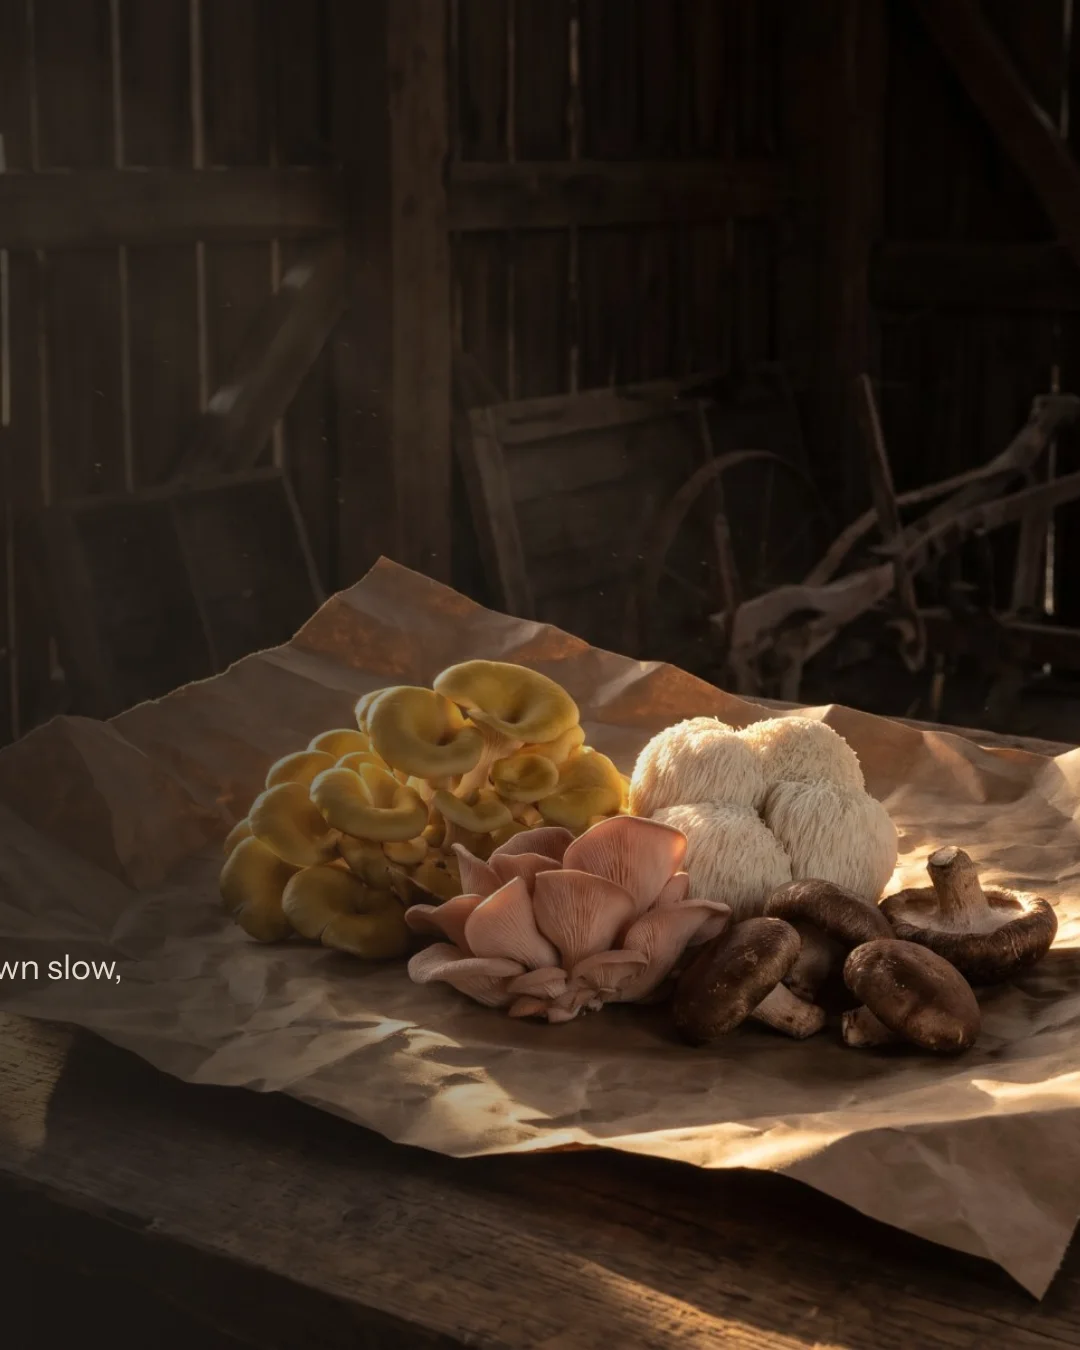
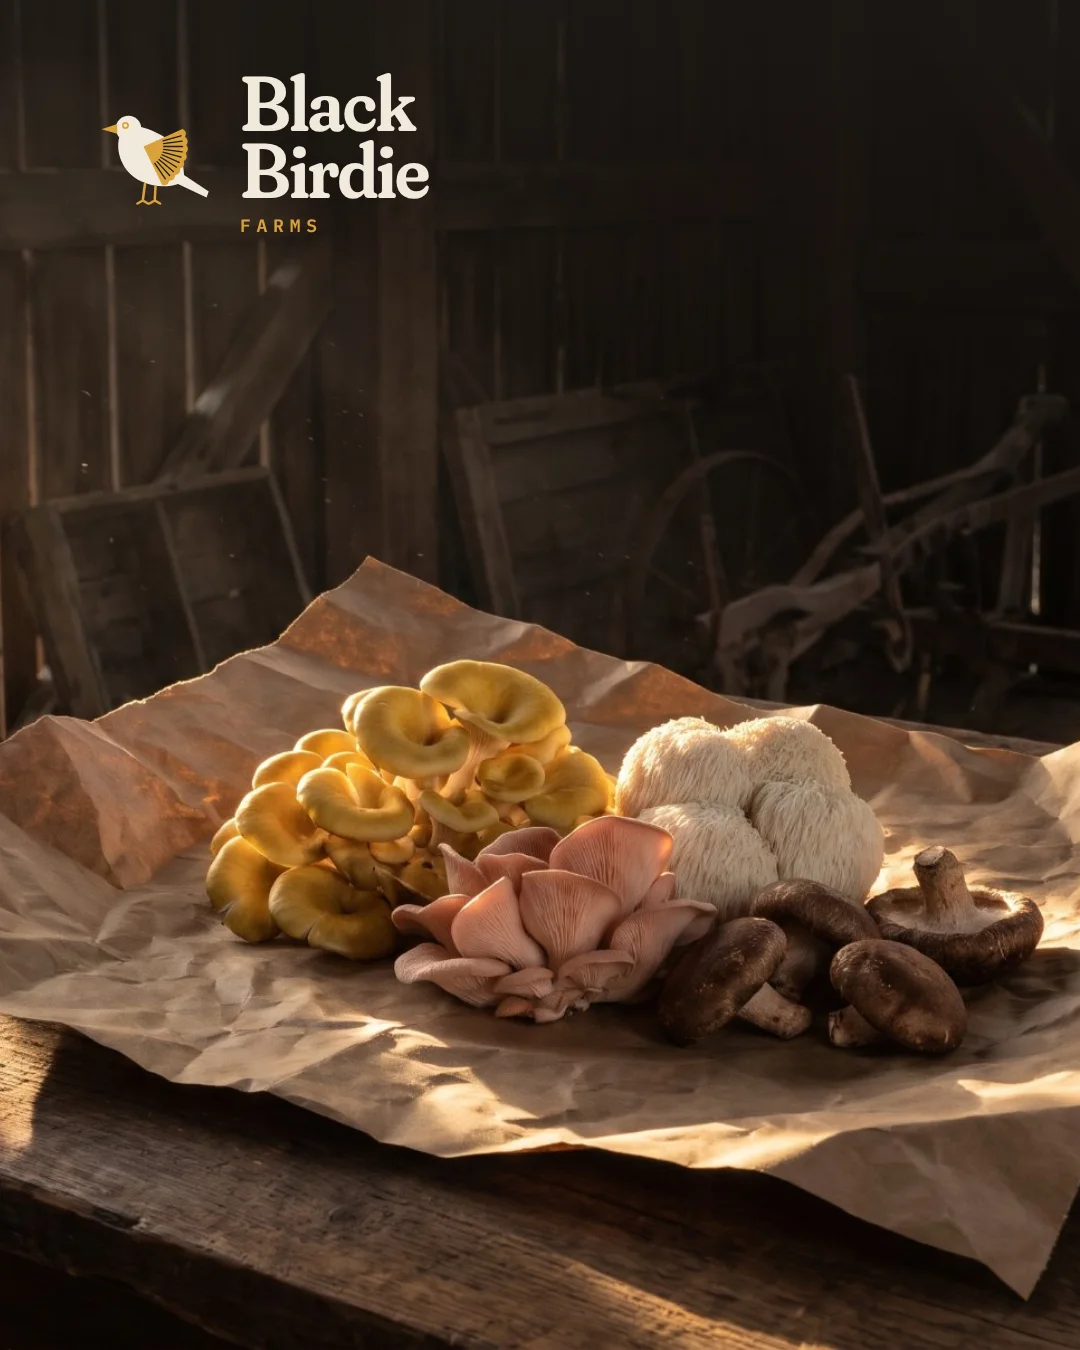
Black Birdie Farms card cover; Work page title and share card name the new services
Claude-Session: https://claude.ai/code/session_01W6caJwvDMc6ZbFhrhuMNuy

diff --git a/app/work/page.tsx b/app/work/page.tsx
@@ -4,7 +4,7 @@ import WaysToStart from "../components/WaysToStart";
 import { DISCIPLINES, LANES, type Discipline, type Lane } from "../content/work";
 
 export const metadata: Metadata = {
-  title: { absolute: "Work: Campaigns, Photography & Brand Films | Creative Direction Hub" },
+  title: { absolute: "Work: Brand Identity, Logos, Packaging & Social | Creative Direction Hub" },
   description: "Brand identity, logos, packaging, social media branding and brand rollouts for consumer brands, personal brands and hospitality, directed by Willie Bernoudy.",
   alternates: { canonical: "/work" },
 };

diff --git a/app/work/opengraph-image.tsx b/app/work/opengraph-image.tsx
@@ -6,5 +6,5 @@ export const size = ogSize;
 export const contentType = "image/png";
 
 export default function OG() {
-  return ogCard({ kicker: "The work", line1: "Every piece", line2: "has a", tape: "director.", sub: "Campaigns, photography, brand films and AI art direction" });
+  return ogCard({ kicker: "The work", line1: "Every piece", line2: "has a", tape: "director.", sub: "Brand identity · Logos · Packaging · Social · Rollout" });
 }
